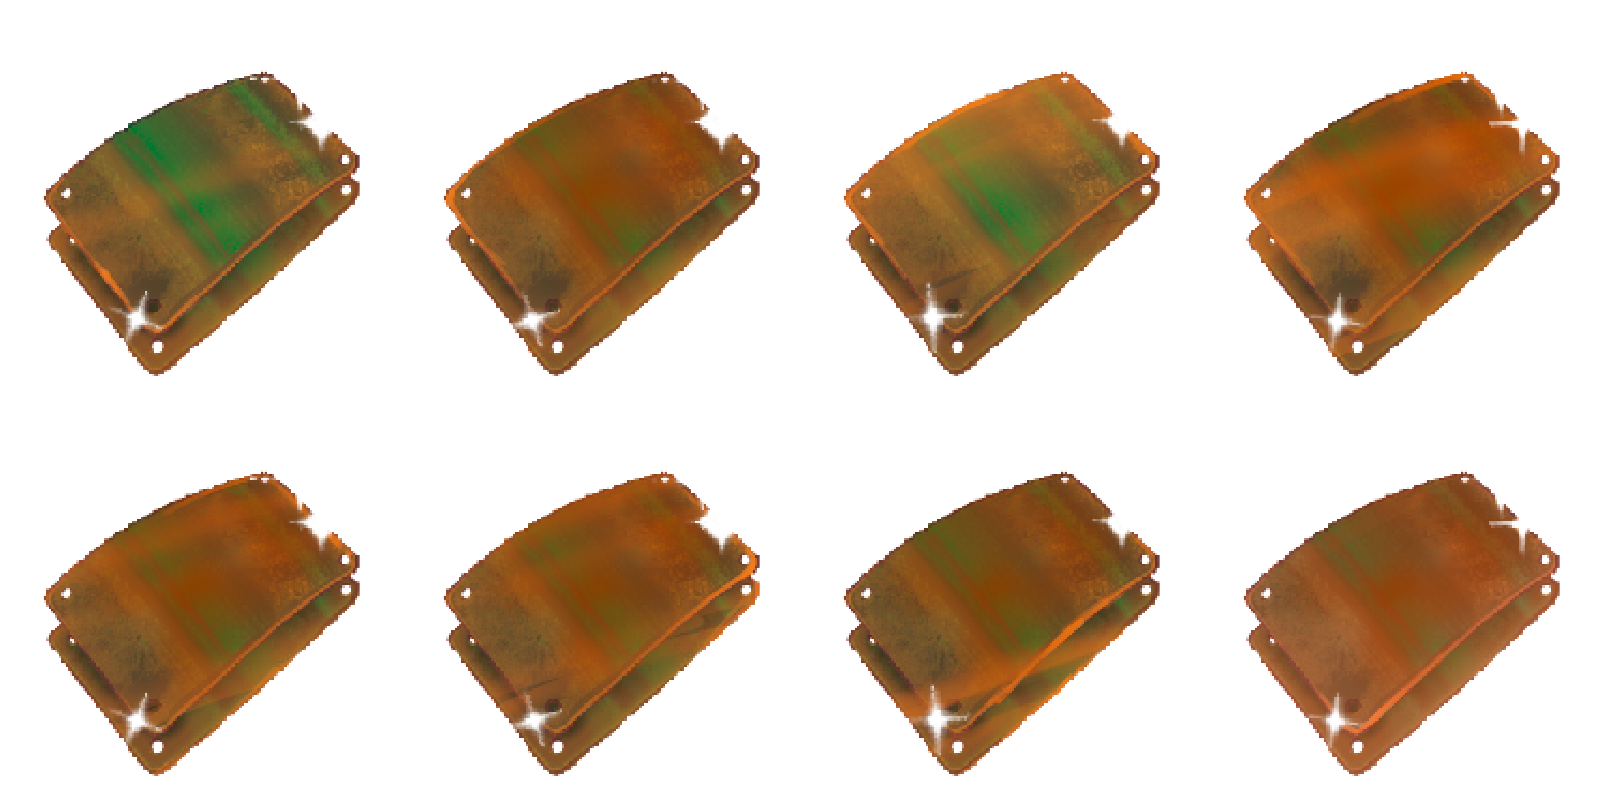
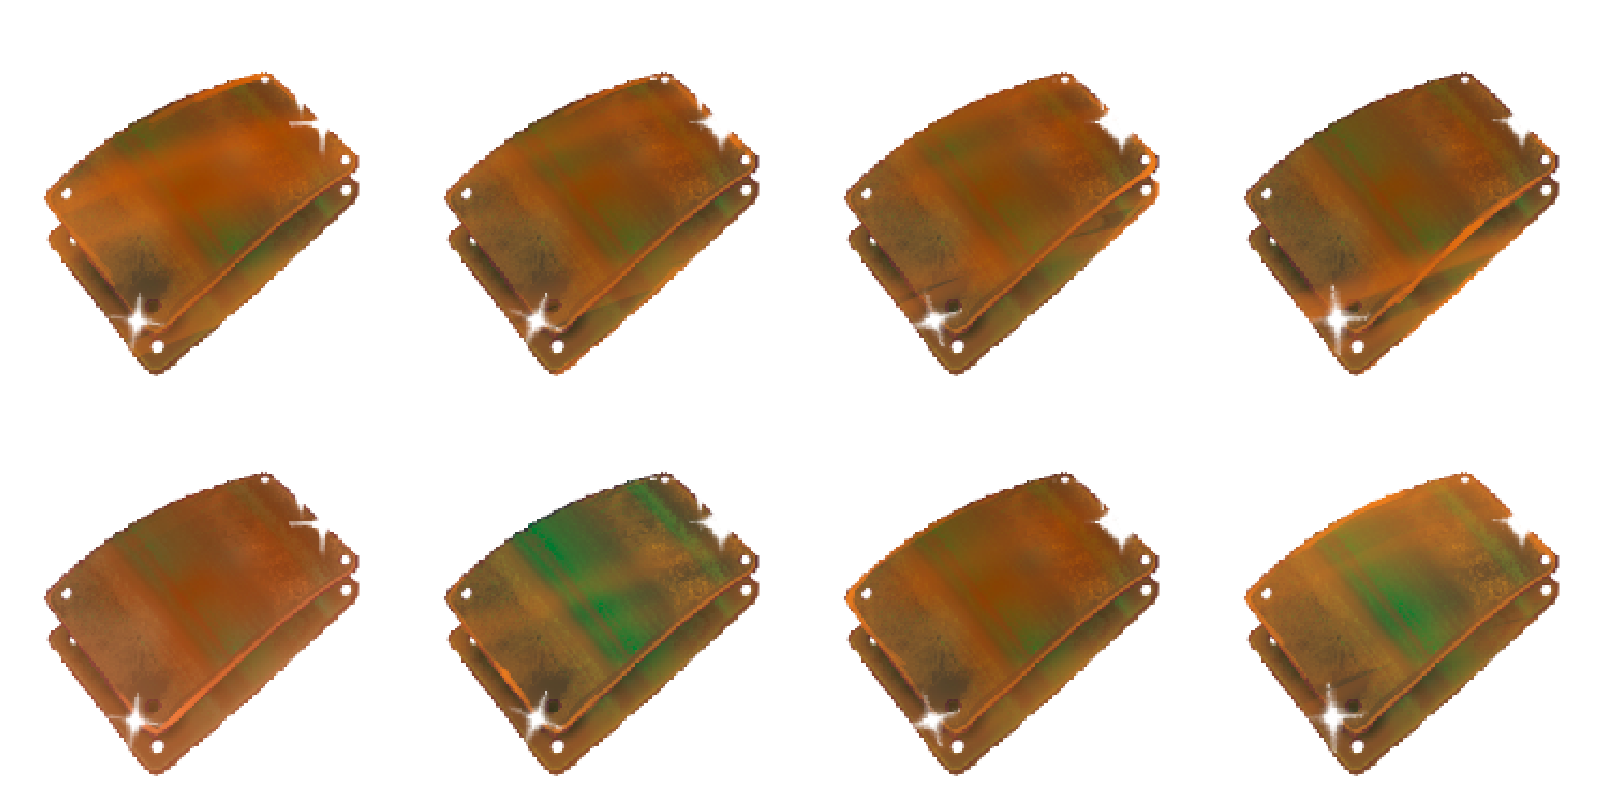
make enemy to drop resource

diff --git a/src/main/java/com/game/shooting_game/gameScene/item/ItemFactory.java b/src/main/java/com/game/shooting_game/gameScene/item/ItemFactory.java
@@ -4,34 +4,29 @@ import java.util.LinkedHashMap;
 import java.util.Map;
 import java.util.Random;
 
-import com.game.shooting_game.ResourceManager.ResourceKinds;
 import com.game.shooting_game.gameScene.item.ItemManager.ItemKinds;
-import com.game.shooting_game.gameScene.item.types.Coin;
 import com.game.shooting_game.gameScene.item.types.Heal;
 import com.game.shooting_game.gameScene.item.types.LevelUp;
-import com.game.shooting_game.interfaces.Collectible;
 import com.game.shooting_game.utils.Vector2;
 
 public class ItemFactory {
-    private static final Random random = new Random();
-
-    // ドロップテーブルの定義
-    private static final Map<Collectible, Integer> DROP_TABLE = new LinkedHashMap<>();
+    // アイテムのドロップテーブルの定義
+    private static final Map<ItemKinds, Double> ITEM_DROP_TABLE = new LinkedHashMap<>();
     static {
-        DROP_TABLE.put(null, 90); // ドロップ無し
-        DROP_TABLE.put(ItemKinds.HEAL, 2); // 回復のドロップ率
-        DROP_TABLE.put(ItemKinds.LEVEL_UP, 5); // レベルアップのドロップ率
-        DROP_TABLE.put(ItemKinds.SHIELD, 3); // シールドのドロップ率
+        ITEM_DROP_TABLE.put(null, 90.0); // ドロップ無し
+        ITEM_DROP_TABLE.put(ItemKinds.HEAL, 2.0); // 回復のドロップ率
+        ITEM_DROP_TABLE.put(ItemKinds.LEVEL_UP, 5.0); // レベルアップのドロップ率
+        ITEM_DROP_TABLE.put(ItemKinds.SHIELD, 3.0); // シールドのドロップ率
     }
 
     /**
-     * アイテムの作成
+     * アイテムの作成(種類ランダム)
      * 
      * @param pos 生成座標
      * @return アイテム
      */
     public static Item createItem(Vector2 pos) {
-        Collectible kind = lottery();
+        ItemKinds kind = lottery();
 
         // ドロップするアイテムの種類を渡す(nullの場合はドロップ無し)
         return switch (kind) {
@@ -49,21 +44,12 @@ public class ItemFactory {
      * @param kind アイテム種
      * @return アイテム
      */
-    public static Item createItem(Vector2 pos, Collectible kind) {
-        if (kind instanceof ItemKinds itemKind) {
-            return switch (itemKind) {
-                case HEAL -> new Heal(pos);
-                case LEVEL_UP -> new LevelUp(pos);
-                default -> null;
-            };
-        }
-        if (kind instanceof ResourceKinds resKind) {
-            return switch (resKind.getResName()) {
-                case COIN -> new Coin(pos);
-                default -> null;
-            };
-        }
-        return null;
+    public static Item createItem(Vector2 pos, ItemKinds kind) {
+        return switch (kind) {
+            case HEAL -> new Heal(pos);
+            case LEVEL_UP -> new LevelUp(pos);
+            default -> null;
+        };
     }
 
     /**
@@ -71,12 +57,13 @@ public class ItemFactory {
      * 
      * @return アイテム種
      */
-    private static Collectible lottery() {
-        int totalWeight = DROP_TABLE.values().stream().mapToInt(Integer::intValue).sum();
-        int randomValue = random.nextInt(totalWeight);
+    private static ItemKinds lottery() {
+        double totalWeight = ITEM_DROP_TABLE.values().stream().mapToDouble(Double::doubleValue).sum();
+        Random random = new Random();
+        double randomValue = random.nextDouble() * totalWeight;
 
-        int cumulativeWeight = 0;
-        for (Map.Entry<Collectible, Integer> entry : DROP_TABLE.entrySet()) {
+        double cumulativeWeight = 0;
+        for (Map.Entry<ItemKinds, Double> entry : ITEM_DROP_TABLE.entrySet()) {
             cumulativeWeight += entry.getValue();
             if (randomValue < cumulativeWeight) {
                 return entry.getKey();

diff --git a/src/main/java/com/game/shooting_game/gameScene/item/ResourceFactory.java b/src/main/java/com/game/shooting_game/gameScene/item/ResourceFactory.java
@@ -1,0 +1,82 @@
+package com.game.shooting_game.gameScene.item;
+
+import java.util.LinkedHashMap;
+import java.util.Map;
+import java.util.Random;
+
+import com.game.shooting_game.ResourceManager.ResourceKinds;
+import com.game.shooting_game.ResourceManager.ResourceKinds.Rarity;
+import com.game.shooting_game.ResourceManager.ResourceKinds.ResourceName;
+import com.game.shooting_game.gameScene.item.types.Resource;
+import com.game.shooting_game.utils.Vector2;
+
+public class ResourceFactory {
+    public enum DropModel {
+        ENEMY_DEFEAT
+    }
+
+    // リソースのドロップテーブルの定義
+    private static final Map<DropModel, Map<Rarity, Double>> RESOURCE_DROP_TABLE = new LinkedHashMap<>();
+    static {
+        Map<Rarity, Double> enemyDefeatTable = new LinkedHashMap<>();
+        enemyDefeatTable.put(null, 91.4);
+        enemyDefeatTable.put(Rarity.COMMON, 5.0);
+        enemyDefeatTable.put(Rarity.UNCOMMON, 2.0);
+        enemyDefeatTable.put(Rarity.RARE, 0.5);
+        enemyDefeatTable.put(Rarity.EPIC, 0.1);
+        enemyDefeatTable.put(Rarity.LEGENDARY, 0.05);
+        RESOURCE_DROP_TABLE.put(DropModel.ENEMY_DEFEAT, enemyDefeatTable);
+    }
+
+    /**
+     * リソースの作成(種類ランダム)
+     * 
+     * @param model ドロップモデル
+     * @param pos   生成位置
+     * @return リソース
+     */
+    public static Resource createResource(DropModel model, Vector2 pos) {
+        Rarity rarity = lottery(model);
+        if (rarity == null)
+            return null;
+
+        ResourceName[] resNames = ResourceName.values();
+        Random random = new Random();
+        int randomIndex = random.nextInt(resNames.length);
+        ResourceName resName = resNames[randomIndex];
+
+        return new Resource(new ResourceKinds(resName, rarity), pos);
+    }
+
+    /**
+     * リソースの作成(種類指定)
+     * 
+     * @param pos     生成位置
+     * @param resKind アイテム種
+     * @return リソース
+     */
+    public static Resource createResource(Vector2 pos, ResourceKinds resKind) {
+        return new Resource(resKind, pos);
+    }
+
+    /**
+     * 確率に基づくドロップするアイテム種の決定
+     *
+     * @param model 使用モデル
+     * @return アイテム種
+     */
+    private static Rarity lottery(DropModel model) {
+        double totalWeight = RESOURCE_DROP_TABLE.get(model).values().stream().mapToDouble(Double::doubleValue).sum();
+        Random random = new Random();
+        double randomValue = random.nextDouble() * totalWeight;
+
+        double cumulativeWeight = 0.0;
+        for (Map.Entry<Rarity, Double> entry : RESOURCE_DROP_TABLE.get(model).entrySet()) {
+            cumulativeWeight += entry.getValue();
+            if (randomValue <= cumulativeWeight) {
+                return entry.getKey();
+            }
+        }
+        return null; // 万が一のため
+    }
+}

diff --git a/src/main/java/com/game/shooting_game/gameScene/ship/ShipManager.java b/src/main/java/com/game/shooting_game/gameScene/ship/ShipManager.java
@@ -32,6 +32,8 @@ import com.game.shooting_game.gameScene.item.Item;
 import com.game.shooting_game.gameScene.item.ItemFactory;
 import com.game.shooting_game.gameScene.item.ItemManager;
 import com.game.shooting_game.gameScene.item.ItemManager.ItemKinds;
+import com.game.shooting_game.gameScene.item.ResourceFactory;
+import com.game.shooting_game.gameScene.item.ResourceFactory.DropModel;
 import com.game.shooting_game.gameScene.ship.types.Player;
 import com.game.shooting_game.interfaces.Manager;
 import com.game.shooting_game.utils.ANSI;
@@ -343,8 +345,10 @@ public final class ShipManager implements Manager {
             if (s.isDead()) {
                 // キル数カウントアップ
                 GM.setKillCountSinceLastLevelUp(GM.getKillCountSinceLastLevelUp() + 1);
-                if (s.isAllowDropItem())
+                if (s.isAllowDropItem()) {
                     dropItem(s); // アイテムドロップ
+                    dropResource(s); // リソースドロップ
+                }
                 dropCoin(s); // コインドロップ
                 s.addScore(); // スコア加算
                 s.animation("death"); // 削除
@@ -373,6 +377,18 @@ public final class ShipManager implements Manager {
     }
 
     /**
+     * リソースドロップ
+     * 
+     * @param ship 参照する船
+     */
+    private void dropResource(Ship ship) {
+        Item newItem = ResourceFactory.createResource(DropModel.ENEMY_DEFEAT, new Vector2(ship.getPos()));
+
+        if (newItem != null)
+            IM.addItem(newItem);
+    }
+
+    /**
      * コインドロップ
      * 
      * @param ship 参照する船
@@ -382,7 +398,7 @@ public final class ShipManager implements Manager {
         int dropAmount = ship.getDropCoinAmount() * (ship.getShipLevel() + 1);
 
         for (int i = 0; i < dropAmount; i++) {
-            IM.addItem(ItemFactory.createItem(new Vector2(ship.getPos()), ResourceKinds.COIN));
+            IM.addItem(ResourceFactory.createResource(new Vector2(ship.getPos()), ResourceKinds.COIN));
         }
     }
 

diff --git a/src/main/java/com/game/shooting_game/gameScene/item/types/Resource.java b/src/main/java/com/game/shooting_game/gameScene/item/types/Resource.java
@@ -4,12 +4,13 @@ import java.awt.Color;
 import java.awt.Graphics;
 
 import com.game.shooting_game.ResourceManager.ResourceKinds;
+import com.game.shooting_game.ResourceManager.ResourceKinds.ResourceName;
 import com.game.shooting_game.ShootingGameMain;
 import com.game.shooting_game.gameScene.item.Item;
 import com.game.shooting_game.utils.GameUtils;
 import com.game.shooting_game.utils.Vector2;
 
-public class Coin extends Item {
+public class Resource extends Item {
     private Vector2 moveDir; // 移動方向
     private double floorY; // 床
     private double minX; // バウンド時のX最小値
@@ -17,8 +18,8 @@ public class Coin extends Item {
     private double elapsedTime; // 出現してからの経過時間
     private Vector2 targetPos;
 
-    public Coin(Vector2 pos) {
-        super(ResourceKinds.COIN, pos);
+    public Resource(ResourceKinds resKind, Vector2 pos) {
+        super(resKind, pos);
         if (0 < vec && vec < Math.PI)
             vec += Math.PI;
 
@@ -101,6 +102,14 @@ public class Coin extends Item {
 
     @Override
     public void effect() {
-        GM.addCoin(100);
+        if (kind instanceof ResourceKinds resKind) {
+            switch (resKind.getResName()) {
+                case ResourceName.COIN -> {
+                    GM.addCoin(100);
+                }
+                default -> {
+                }
+            }
+        }
     }
 }
